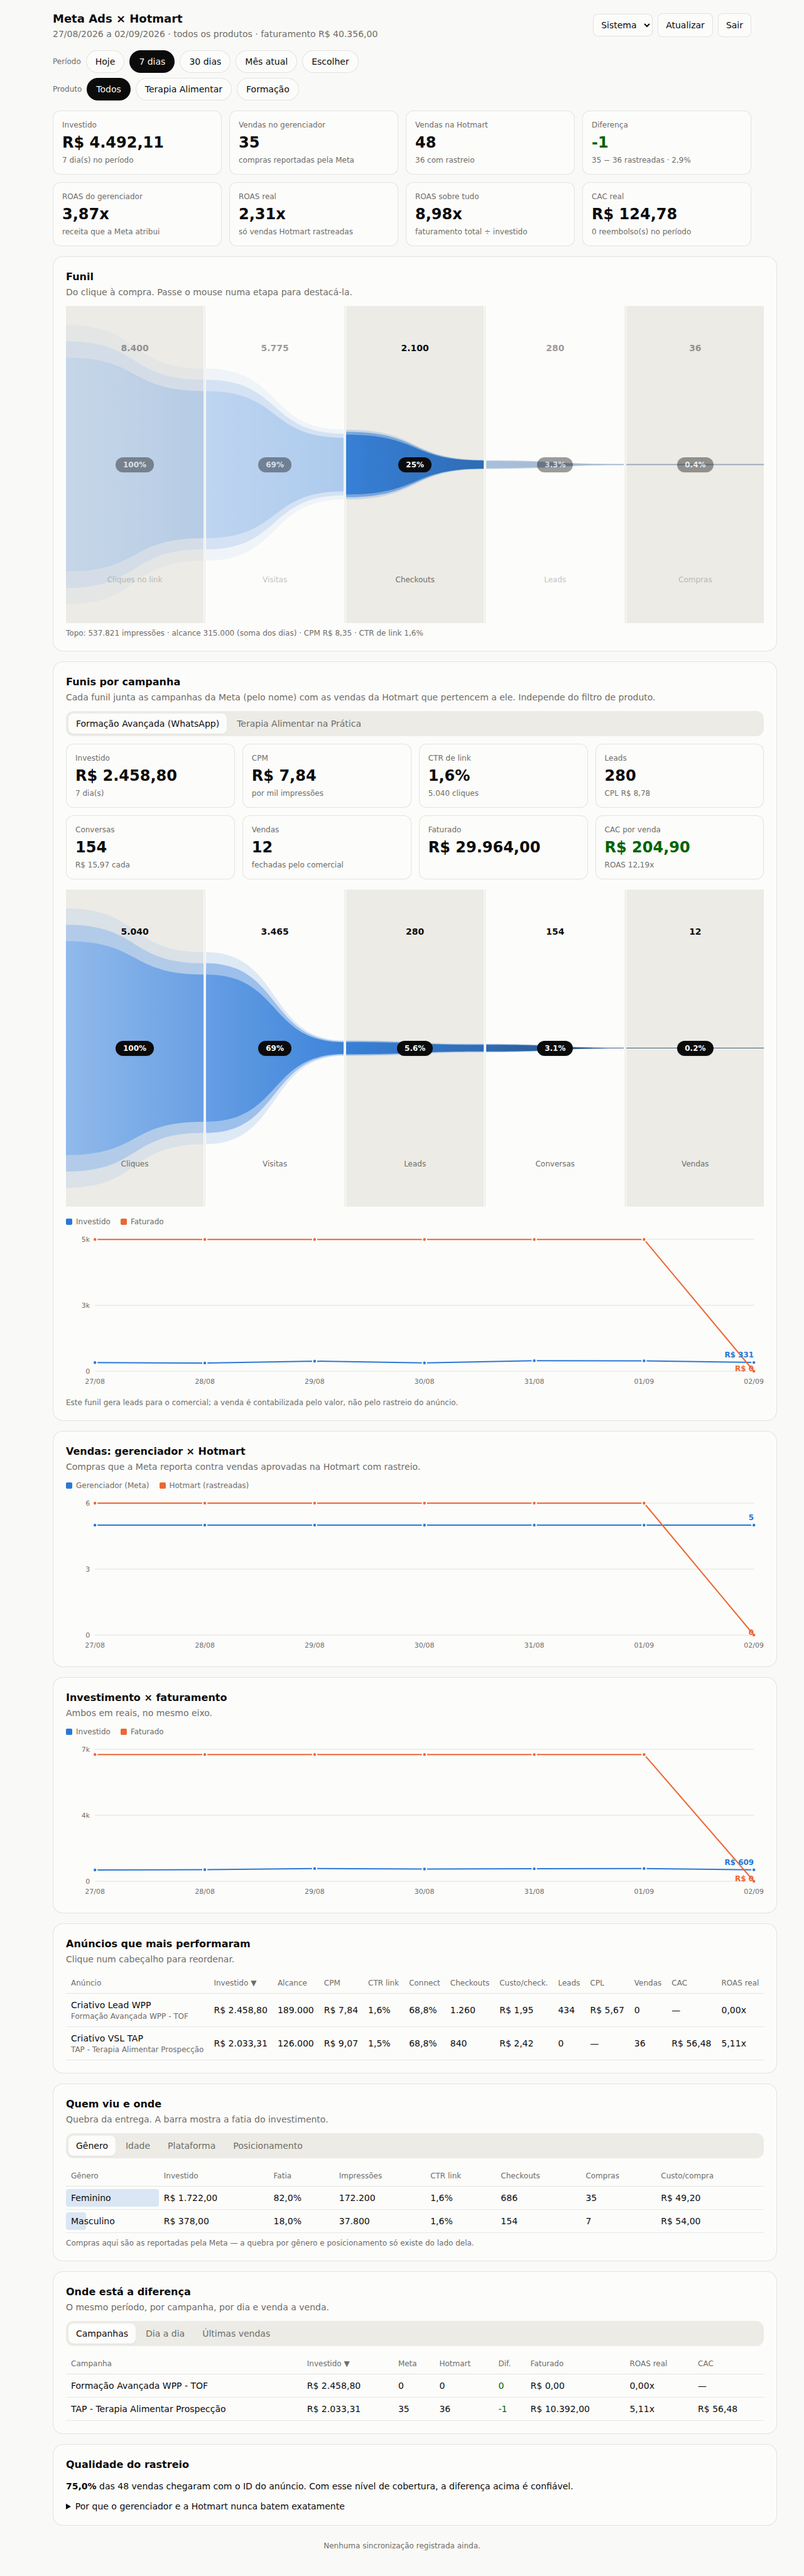
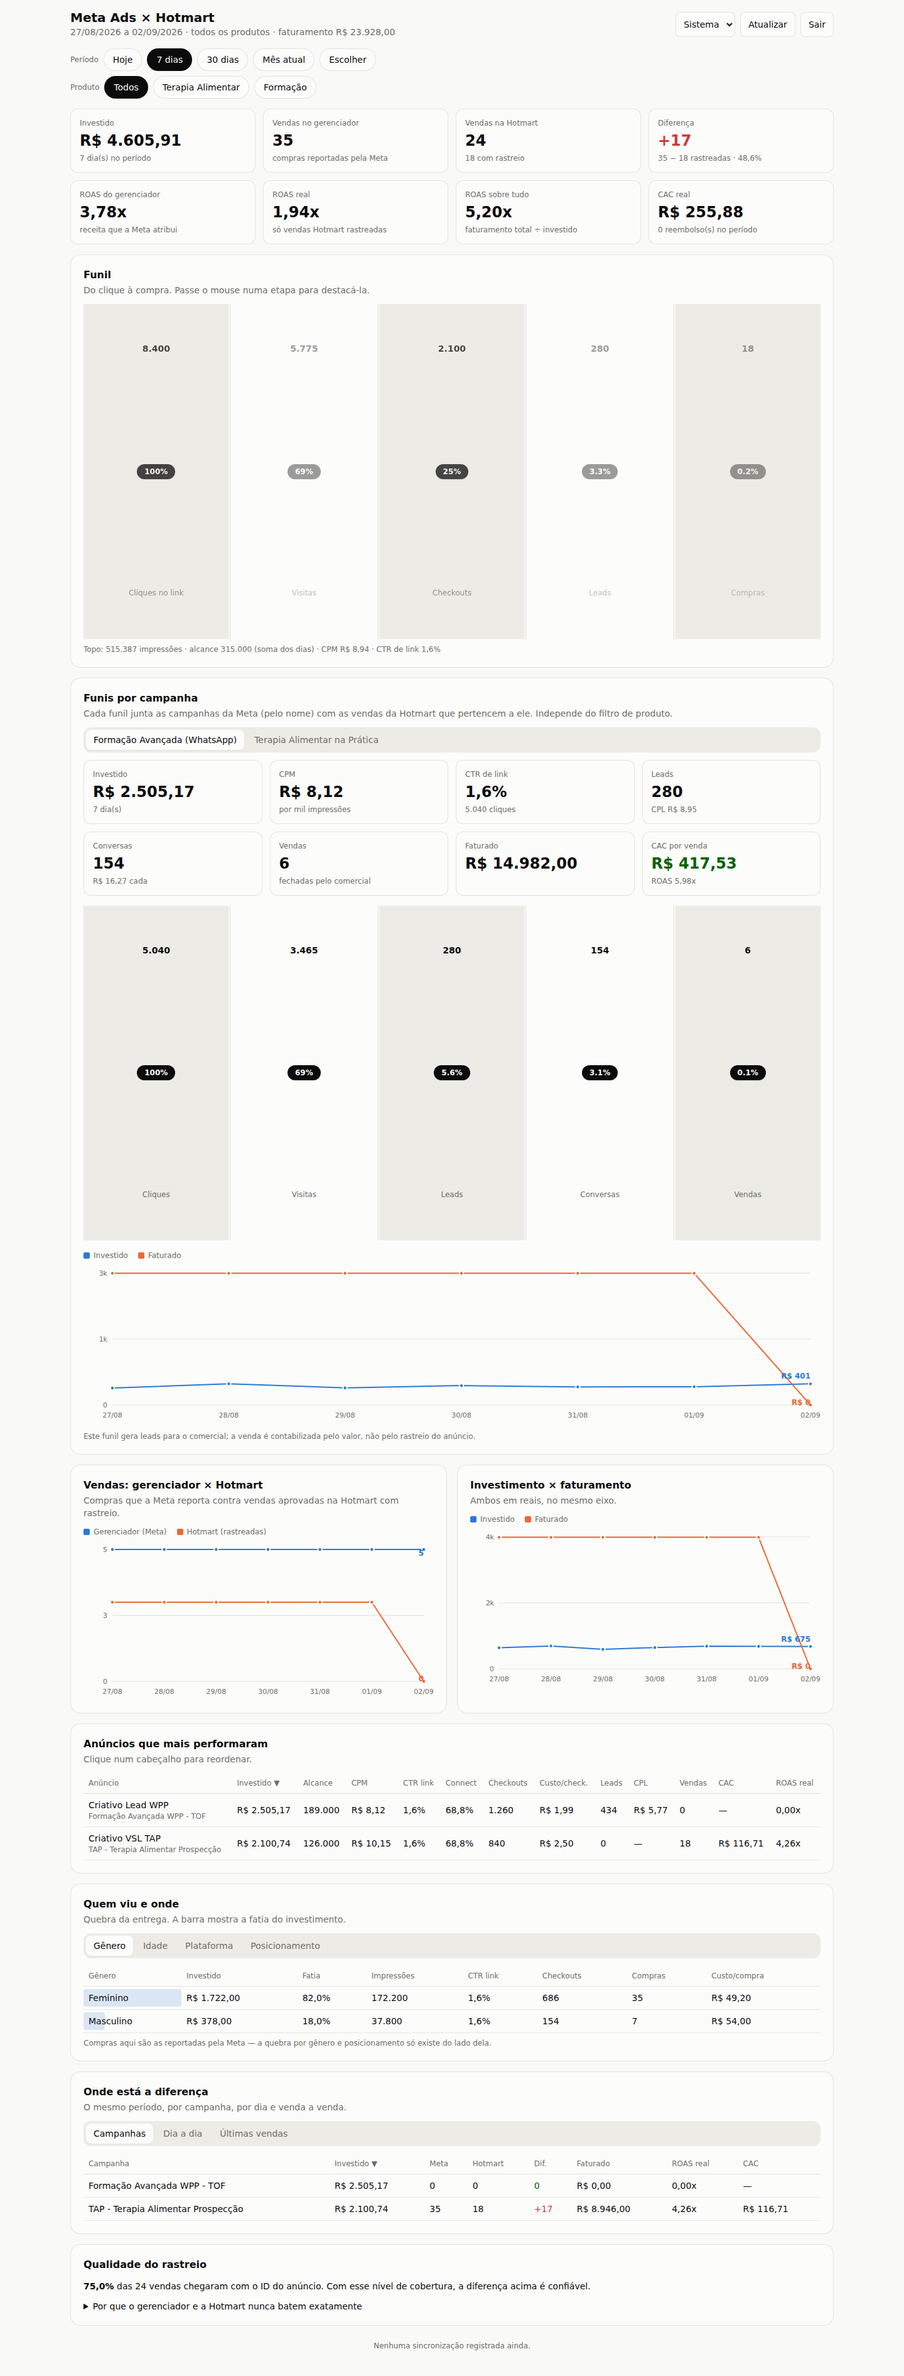
Painel web: foco no desktop + correção de ordenação dos gráficos
- Foco 100% na visão web: container mais largo (max-w-7xl) e os dois gráficos
  de linha lado a lado no desktop, aproveitando a largura da tela. Funil segue
  horizontal e proeminente no desktop.
- Correção: as séries diárias dos gráficos não estavam ordenadas por data no
  escopo "Todos" (eixo saía embaralhado); agora ordenadas asc.
- Cabeçalho compacto e responsivo; funil vertical só como fallback no celular.
- Screenshots atualizados (docs/screenshots/react-desktop-{light,dark}).

Claude-Session: https://claude.ai/code/session_01VdLTZ5Nrub43ck7CFVf6qU

diff --git a/web/src/App.tsx b/web/src/App.tsx
@@ -131,15 +131,16 @@ function Painel({ onSair }: { onSair: () => void }) {
   const escopo = useMemo(() => {
     if (!dados) return null;
     if (produto === "todos") {
+      const diasOrd = [...dados.dias].sort((a, b) => (a.data < b.data ? -1 : 1));
       const f = agregar(dados.ads);
-      f.vendas_hotmart = soma(dados.dias, "vendas_hotmart");
-      f.vendas_rastreadas = soma(dados.dias, "vendas_rastreadas");
-      f.receita_hotmart_brl = soma(dados.dias, "receita_hotmart_brl");
-      f.reembolsos = soma(dados.dias, "reembolsos");
-      const recRastr = soma(dados.dias, "receita_rastreada_brl");
-      const dseries: Ponto[] = dados.dias.map((x) => ({ dia: x.data, a: num(x.vendas_meta), b: num(x.vendas_rastreadas) }));
-      const dmoney: Ponto[] = dados.dias.map((x) => ({ dia: x.data, a: num(x.investido_brl), b: num(x.receita_hotmart_brl) }));
-      return { f, recRastr, dias: dados.dias, ads: dados.ads, quebra: dados.quebra, dseries, dmoney, nDias: dados.dias.length };
+      f.vendas_hotmart = soma(diasOrd, "vendas_hotmart");
+      f.vendas_rastreadas = soma(diasOrd, "vendas_rastreadas");
+      f.receita_hotmart_brl = soma(diasOrd, "receita_hotmart_brl");
+      f.reembolsos = soma(diasOrd, "reembolsos");
+      const recRastr = soma(diasOrd, "receita_rastreada_brl");
+      const dseries: Ponto[] = diasOrd.map((x) => ({ dia: x.data, a: num(x.vendas_meta), b: num(x.vendas_rastreadas) }));
+      const dmoney: Ponto[] = diasOrd.map((x) => ({ dia: x.data, a: num(x.investido_brl), b: num(x.receita_hotmart_brl) }));
+      return { f, recRastr, dias: diasOrd, ads: dados.ads, quebra: dados.quebra, dseries, dmoney, nDias: diasOrd.length };
     }
     const pid = Number(produto);
     const fdias = dados.funil.filter((l) => Number(l.product_id) === pid);
@@ -160,7 +161,8 @@ function Painel({ onSair }: { onSair: () => void }) {
     });
     const dmoney = Object.values(money).sort((x, y) => (x.dia < y.dia ? -1 : 1));
     const diasUnicos = new Set(fdias.map((l) => l.data)).size;
-    return { f, recRastr, dias: fdias, ads: dados.ads.filter((l) => Number(l.product_id) === pid),
+    const diasOrd = [...fdias].sort((a, b) => (a.data < b.data ? -1 : 1));
+    return { f, recRastr, dias: diasOrd, ads: dados.ads.filter((l) => Number(l.product_id) === pid),
       quebra: dados.quebra.filter((l) => Number(l.product_id) === pid), dseries, dmoney, nDias: diasUnicos };
   }, [dados, produto]);
 
@@ -192,22 +194,22 @@ function Painel({ onSair }: { onSair: () => void }) {
   const pctRastr = totV > 0 ? (totR / totV) * 100 : null;
 
   return (
-    <div className="mx-auto max-w-6xl px-3 py-4 sm:px-5">
+    <div className="mx-auto max-w-7xl px-3 py-4 sm:px-6 lg:px-8">
       {/* header */}
-      <header className="flex items-center justify-between gap-3">
+      <header className="flex flex-col gap-2 sm:flex-row sm:items-center sm:justify-between">
         <div>
-          <h1 className="text-lg font-bold">Meta Ads × Hotmart</h1>
-          <div className="text-sm text-muted-foreground">
+          <h1 className="text-xl font-bold leading-tight">Meta Ads × Hotmart</h1>
+          <div className="text-xs text-muted-foreground sm:text-sm">
             {brData(de)} a {brData(ate)} · {nomeProduto} · faturamento {rs(f.receita_hotmart_brl, 2)}
           </div>
         </div>
-        <div className="flex items-center gap-2">
+        <div className="flex items-center gap-2 self-stretch sm:self-auto">
           <select value={theme} onChange={(e) => setTheme(e.target.value)} aria-label="Tema"
-            className="rounded-lg border border-border bg-surface px-2 py-2 text-sm">
+            className="min-h-10 rounded-lg border border-border bg-surface px-2 text-sm">
             <option value="system">Sistema</option><option value="light">Claro</option><option value="dark">Escuro</option>
           </select>
-          <button onClick={() => carregar(de, ate)} className="rounded-lg border border-border bg-surface px-3 py-2 text-sm">Atualizar</button>
-          <button onClick={onSair} className="rounded-lg border border-border bg-surface px-3 py-2 text-sm">Sair</button>
+          <button onClick={() => carregar(de, ate)} className="min-h-10 flex-1 rounded-lg border border-border bg-surface px-3 text-sm sm:flex-none">Atualizar</button>
+          <button onClick={onSair} className="min-h-10 flex-1 rounded-lg border border-border bg-surface px-3 text-sm sm:flex-none">Sair</button>
         </div>
       </header>
 
@@ -263,15 +265,17 @@ function Painel({ onSair }: { onSair: () => void }) {
         {/* Funis por campanha */}
         <FunisPorCampanha dados={dados} slug={funilSlug} setSlug={setFunilSlug} />
 
-        {/* Gráficos */}
-        <Card title="Vendas: gerenciador × Hotmart" sub="Compras que a Meta reporta contra vendas aprovadas na Hotmart com rastreio.">
-          <Legenda items={[{ cor: "var(--s1)", nome: "Gerenciador (Meta)" }, { cor: "var(--s2)", nome: "Hotmart (rastreadas)" }]} />
-          <div className="mt-2"><LineChart data={escopo.dseries} nomeA="Gerenciador" nomeB="Hotmart" rot={(v) => nBR(v)} eixo={(v) => nBR(v)} /></div>
-        </Card>
-        <Card title="Investimento × faturamento" sub="Ambos em reais, no mesmo eixo.">
-          <Legenda items={[{ cor: "var(--s1)", nome: "Investido" }, { cor: "var(--s2)", nome: "Faturado" }]} />
-          <div className="mt-2"><LineChart data={escopo.dmoney} nomeA="Investido" nomeB="Faturado" rot={(v) => rs(v, 0)} eixo={(v) => (v >= 1000 ? nBR(v / 1000, 0) + "k" : nBR(v))} /></div>
-        </Card>
+        {/* Gráficos — lado a lado no desktop */}
+        <div className="grid gap-4 lg:grid-cols-2">
+          <Card title="Vendas: gerenciador × Hotmart" sub="Compras que a Meta reporta contra vendas aprovadas na Hotmart com rastreio.">
+            <Legenda items={[{ cor: "var(--s1)", nome: "Gerenciador (Meta)" }, { cor: "var(--s2)", nome: "Hotmart (rastreadas)" }]} />
+            <div className="mt-2"><LineChart data={escopo.dseries} nomeA="Gerenciador" nomeB="Hotmart" rot={(v) => nBR(v)} eixo={(v) => nBR(v)} /></div>
+          </Card>
+          <Card title="Investimento × faturamento" sub="Ambos em reais, no mesmo eixo.">
+            <Legenda items={[{ cor: "var(--s1)", nome: "Investido" }, { cor: "var(--s2)", nome: "Faturado" }]} />
+            <div className="mt-2"><LineChart data={escopo.dmoney} nomeA="Investido" nomeB="Faturado" rot={(v) => rs(v, 0)} eixo={(v) => (v >= 1000 ? nBR(v / 1000, 0) + "k" : nBR(v))} /></div>
+          </Card>
+        </div>
 
         {/* Anúncios */}
         <Card title="Anúncios que mais performaram" sub="Clique num cabeçalho para reordenar.">

diff --git a/web/src/components/FunnelVisual.tsx b/web/src/components/FunnelVisual.tsx
@@ -1,5 +1,6 @@
 import { FunnelChart, type FunnelStage } from "@/components/ui/funnel-chart";
 import { nBR } from "@/lib/format";
+import { useIsMobile } from "@/lib/useIsMobile";
 
 export interface EtapaFunil { label: string; value: number; display?: string; }
 
@@ -7,7 +8,6 @@ const RAMP = ["var(--chart-1)", "var(--chart-2)", "var(--chart-3)", "var(--chart
 
 /** Monta os estágios com um degradê sequencial (o funil é sequencial). */
 export function montarEstagios(itens: EtapaFunil[]): FunnelStage[] {
-  const n = Math.max(itens.length, 1);
   return itens.map((it, i) => {
     const c0 = RAMP[Math.min(i, RAMP.length - 1)];
     const c1 = RAMP[Math.min(i + 1, RAMP.length - 1)];
@@ -24,17 +24,21 @@ export function montarEstagios(itens: EtapaFunil[]): FunnelStage[] {
 }
 
 export function FunnelVisual({ itens }: { itens: EtapaFunil[] }) {
+  const mobile = useIsMobile();
   const dados = montarEstagios(itens);
   if (!dados.length || dados[0].value <= 0) {
     return <div className="py-8 text-center text-sm text-muted-foreground">Sem volume no topo do funil neste período.</div>;
   }
+  // No celular o funil vertical usa muito melhor a largura estreita.
   return (
     <FunnelChart
       data={dados}
+      orientation={mobile ? "vertical" : "horizontal"}
       layers={3}
       edges="curved"
       grid
       labelLayout="spread"
+      staggerDelay={0.1}
       formatValue={(v) => nBR(v)}
       formatPercentage={(p) => (p >= 10 ? `${Math.round(p)}%` : `${p.toFixed(1)}%`)}
     />

diff --git a/web/src/lib/useIsMobile.ts b/web/src/lib/useIsMobile.ts
@@ -1,0 +1,16 @@
+import { useEffect, useState } from "react";
+
+/** true quando a largura da viewport é <= breakpoint (padrão 640px). */
+export function useIsMobile(breakpoint = 640): boolean {
+  const [mobile, setMobile] = useState(() =>
+    typeof window !== "undefined" ? window.matchMedia(`(max-width: ${breakpoint}px)`).matches : true
+  );
+  useEffect(() => {
+    const mq = window.matchMedia(`(max-width: ${breakpoint}px)`);
+    const on = () => setMobile(mq.matches);
+    on();
+    mq.addEventListener("change", on);
+    return () => mq.removeEventListener("change", on);
+  }, [breakpoint]);
+  return mobile;
+}
